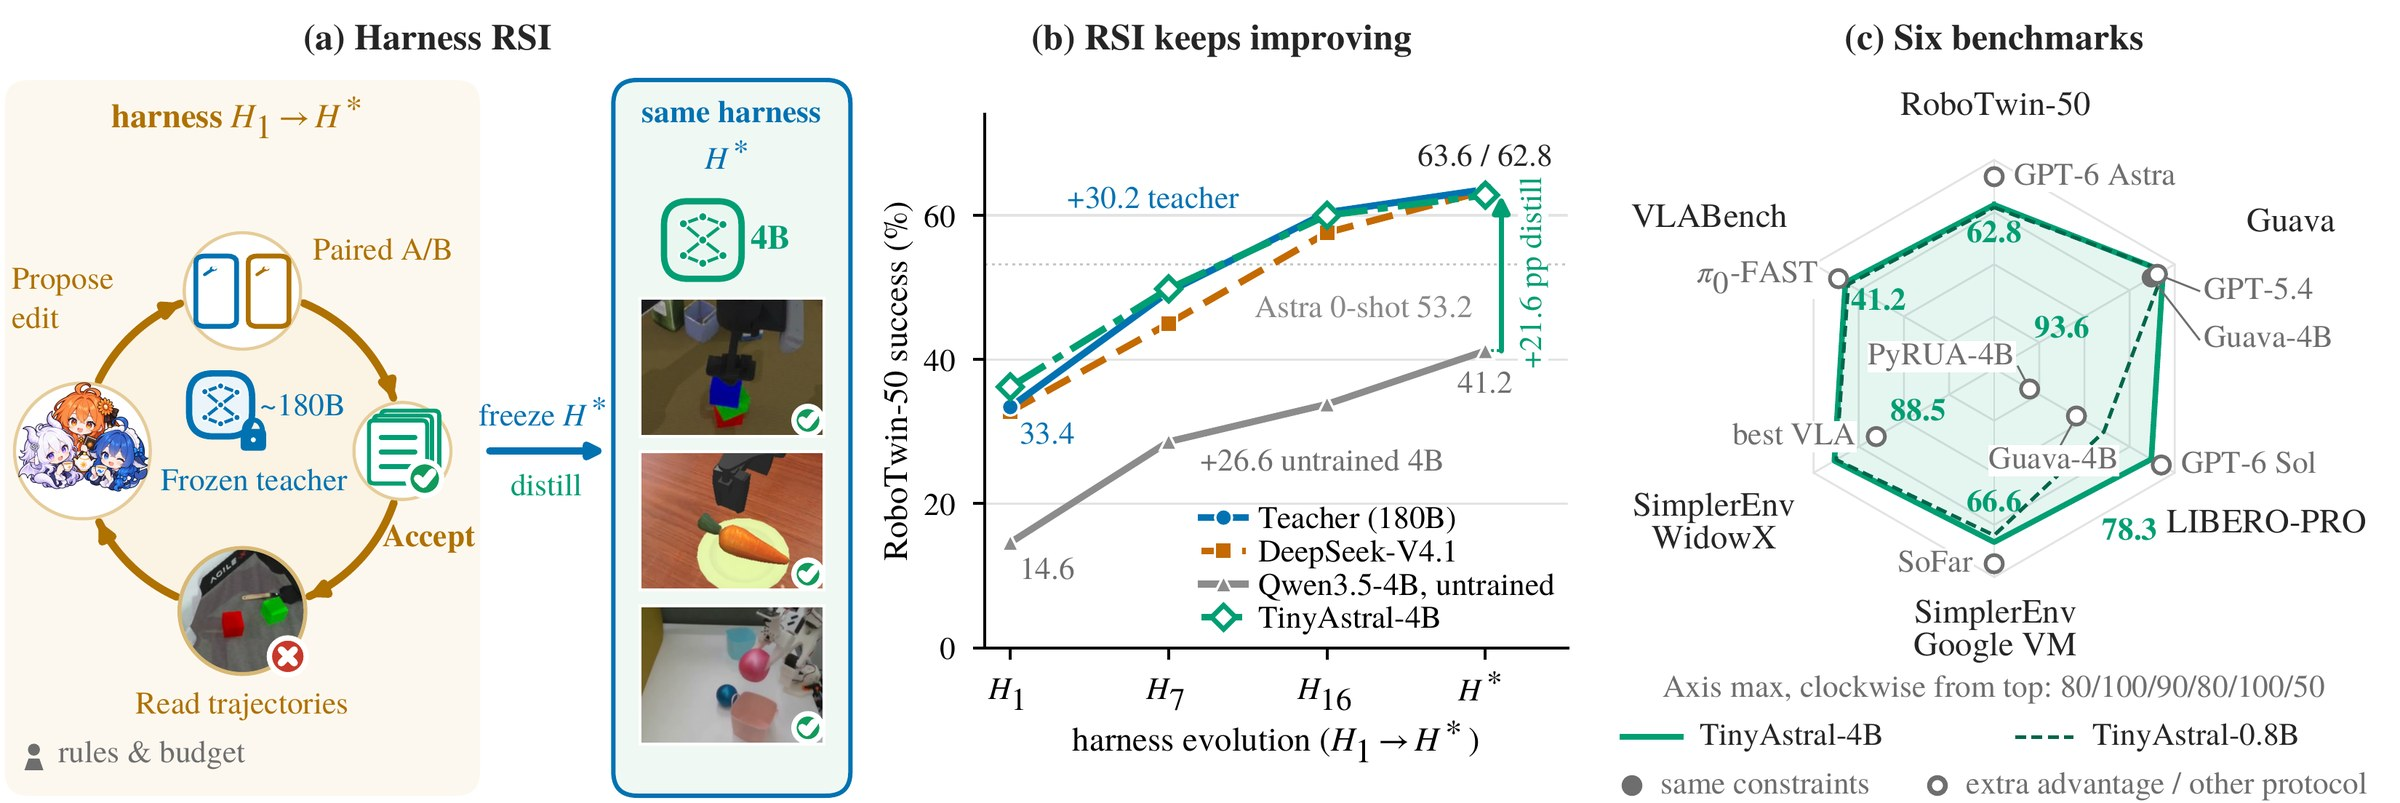
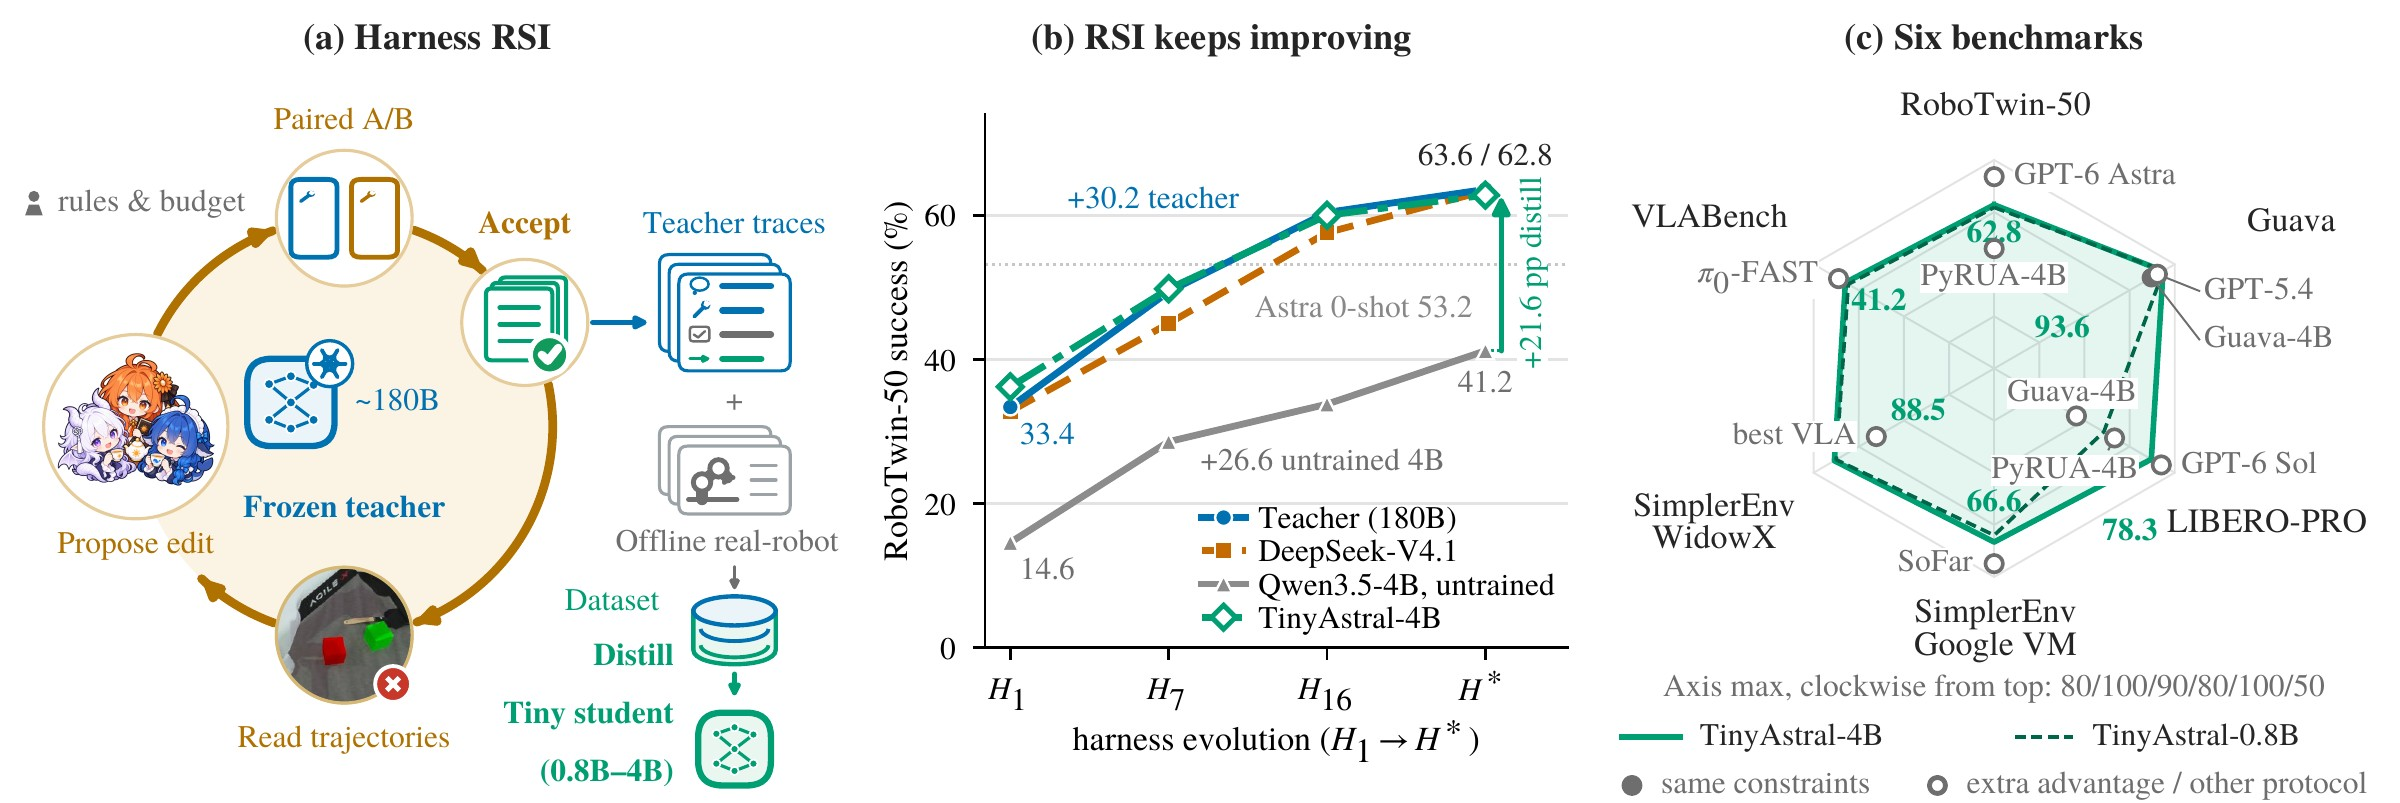
README: PyRUA-Lean-4B under its official setting (46.0 / 60.0); updated teaser

diff --git a/README.md b/README.md
@@ -87,7 +87,7 @@ episode with `done` and the simulator's success predicate holds); zero-shot benc
 <tbody>
 <tr><td colspan="8"><sub><i>Strongest competitor run per training benchmark (same episodes, their official harnesses, run by us)</i></sub></td></tr>
 <tr><td>Guava-4B</td><td align="center">–</td><td align="center">84.4</td><td align="center">–</td><td align="center">–</td><td align="center">–</td><td align="center">–</td><td align="center">–</td></tr>
-<tr><td>PyRUA-Lean + Qwen3.8-Flash-Next</td><td align="center">18.2</td><td align="center">–</td><td align="center">53.0</td><td align="center">–</td><td align="center">–</td><td align="center">–</td><td align="center">–</td></tr>
+<tr><td>PyRUA-Lean-4B</td><td align="center">46.0<sup>f</sup></td><td align="center">–</td><td align="center">60.0<sup>f</sup></td><td align="center">–</td><td align="center">–</td><td align="center">–</td><td align="center">–</td></tr>
 <tr><td>SenseNova-RoboRSI-27B<sup>d</sup></td><td align="center">–</td><td align="center">–</td><td align="center">70.3</td><td align="center">–</td><td align="center">–</td><td align="center">–</td><td align="center">–</td></tr>
 <tr><td colspan="8"><sub><i>Ours (same harness H*, strict protocol)</i></sub></td></tr>
 <tr><td>Qwen3.5-4B, untrained</td><td align="center">41.2<sup>†</sup></td><td align="center">75.1</td><td align="center">36.3<sup>†</sup></td><td align="center">56.6</td><td align="center">86.5</td><td align="center">27.6</td><td align="center">21.9</td></tr>
@@ -99,7 +99,7 @@ episode with `done` and the simulator's success predicate holds); zero-shot benc
 </tbody>
 </table>
 
-<sub><sup>d</sup> Stop on success. <sup>†</sup> &gt;5% unknown outcomes, counted as failures. –: unavailable.</sub>
+<sub><sup>d</sup> Stop on success. <sup>f</sup> Official code and settings (per-step success flag, 90-minute budget) on our episodes. <sup>†</sup> &gt;5% unknown outcomes, counted as failures. –: unavailable.</sub>
 
 <details>
 <summary><b>Full table: published results, competitor runs and evaluation conditions</b></summary>
@@ -117,16 +117,15 @@ Conditions: **O** open, **C** no closed LLM, **S** no success signal, **I** no I
 | GPT-6 Astra, zero-shot | ✗ | ✗ | ✗ | ✓ | ✓ | 53.2 | – | – | – | – | – | – |
 | GPT-5.4, Guava harness | ✗ | ✗ | ✓ | ✓ | ✓ | – | 90.4 | – | – | – | – | – |
 | MotorMind, GPT-6 Sol | ✗ | ✗ | ✗ | ✓ | ✓ | – | – | 83.3<sup>a</sup> | – | – | – | – |
-| World Action Agent, Gemini 3.7 Flash | ✗ | ✗ | ✗ | ✓ | ✗ | – | – | 75.6<sup>f</sup> | – | – | – | – |
-| World Action Agent, Qwen3.5-9B student | ✗ | ✗ | ✗ | ✓ | ✗ | – | – | 43.3<sup>f</sup> | – | – | – | – |
+| World Action Agent, Gemini 3.7 Flash | ✗ | ✗ | ✗ | ✓ | ✗ | – | – | 75.6<sup>e</sup> | – | – | – | – |
+| World Action Agent, Qwen3.5-9B student | ✗ | ✗ | ✗ | ✓ | ✗ | – | – | 43.3<sup>e</sup> | – | – | – | – |
 | SoFar, GPT-4o | ✗ | ✗ | ✓ | ✓ | ✓ | – | – | – | 74.9 | 58.3 | – | – |
 | π<sub>0</sub>-FAST, fine-tuned | ✓ | ✓ | ✓ | ✓ | ✗ | – | – | – | 61.9 | 32.1 | 43.1 | – |
 | GPT-4o, EmbodiedBench<sup>b</sup> | ✗ | ✗ | ✓ | ✗ | ✓ | – | – | – | – | – | – | 28.9 |
 | <sub>*Same episodes, competitors' official harnesses, run by us*</sub> | | | | | | | | | | | | |
-| PyRUA-Lean-4B | ✓ | ✓ | ✓ | ✓ | ✗ | 12.8 | – | 17.7<sup>e</sup> | – | – | – | – |
+| PyRUA-Lean-4B | ✓ | ✓ | ✗ | ✓ | ✗ | 46.0<sup>f</sup> | – | 60.0<sup>f</sup> | – | – | – | – |
 | Guava-4B | ✓ | ✓ | ✓ | ✓ | ✓ | – | 84.4 | – | – | – | – | – |
 | MotorMind + Qwen3.8-Flash-Next<sup>c</sup> | ✓ | ✓ | ✗ | ✓ | ✓ | – | – | 57.3 | – | – | – | – |
-| PyRUA-Lean + Qwen3.8-Flash-Next | ✓ | ✓ | ✓ | ✓ | ✗ | 18.2 | – | 53.0 | – | – | – | – |
 | Guava harness + Qwen3.8-Flash-Next | ✓ | ✓ | ✓ | ✓ | ✓ | – | 78.9 | – | – | – | – | – |
 | SenseNova-RoboRSI-27B<sup>d</sup> | ✓ | ✓ | ✗ | ✓ | ✓ | – | – | 70.3 | – | – | – | – |
 | <sub>*Ours (same harness H\*, strict protocol)*</sub> | | | | | | | | | | | | |
@@ -138,9 +137,9 @@ Conditions: **O** open, **C** no closed LLM, **S** no success signal, **I** no I
 | **TinyAstral-4B** | ✓ | ✓ | ✓ | ✓ | ✓ | **62.8** | **93.6** | **78.3** | **66.6** | **88.5** | **41.2** | **27.6** |
 
 <sub><sup>a</sup> Original LIBERO suites, single seed. <sup>b</sup> Ground-truth coordinates, boxes, and in-context
-examples. <sup>c,d</sup> Stop on success. <sup>e</sup> Final-state success only, without requiring a successful finish
-declaration. <sup>f</sup> Position and task perturbations only (360 episodes), simulator point clouds; the student is
-trained on rollouts of the same tasks and tested on unseen seeds. <sup>†</sup> &gt;5% unknown outcomes, counted as
+examples. <sup>c,d</sup> Stop on success. <sup>e</sup> Position and task perturbations only (360 episodes), simulator point clouds; the student is
+trained on rollouts of the same tasks and tested on unseen seeds. <sup>f</sup> Official code and settings (per-step
+success flag, 90-minute budget) on our episodes. <sup>†</sup> &gt;5% unknown outcomes, counted as
 failures.</sub>
 
 </details>
